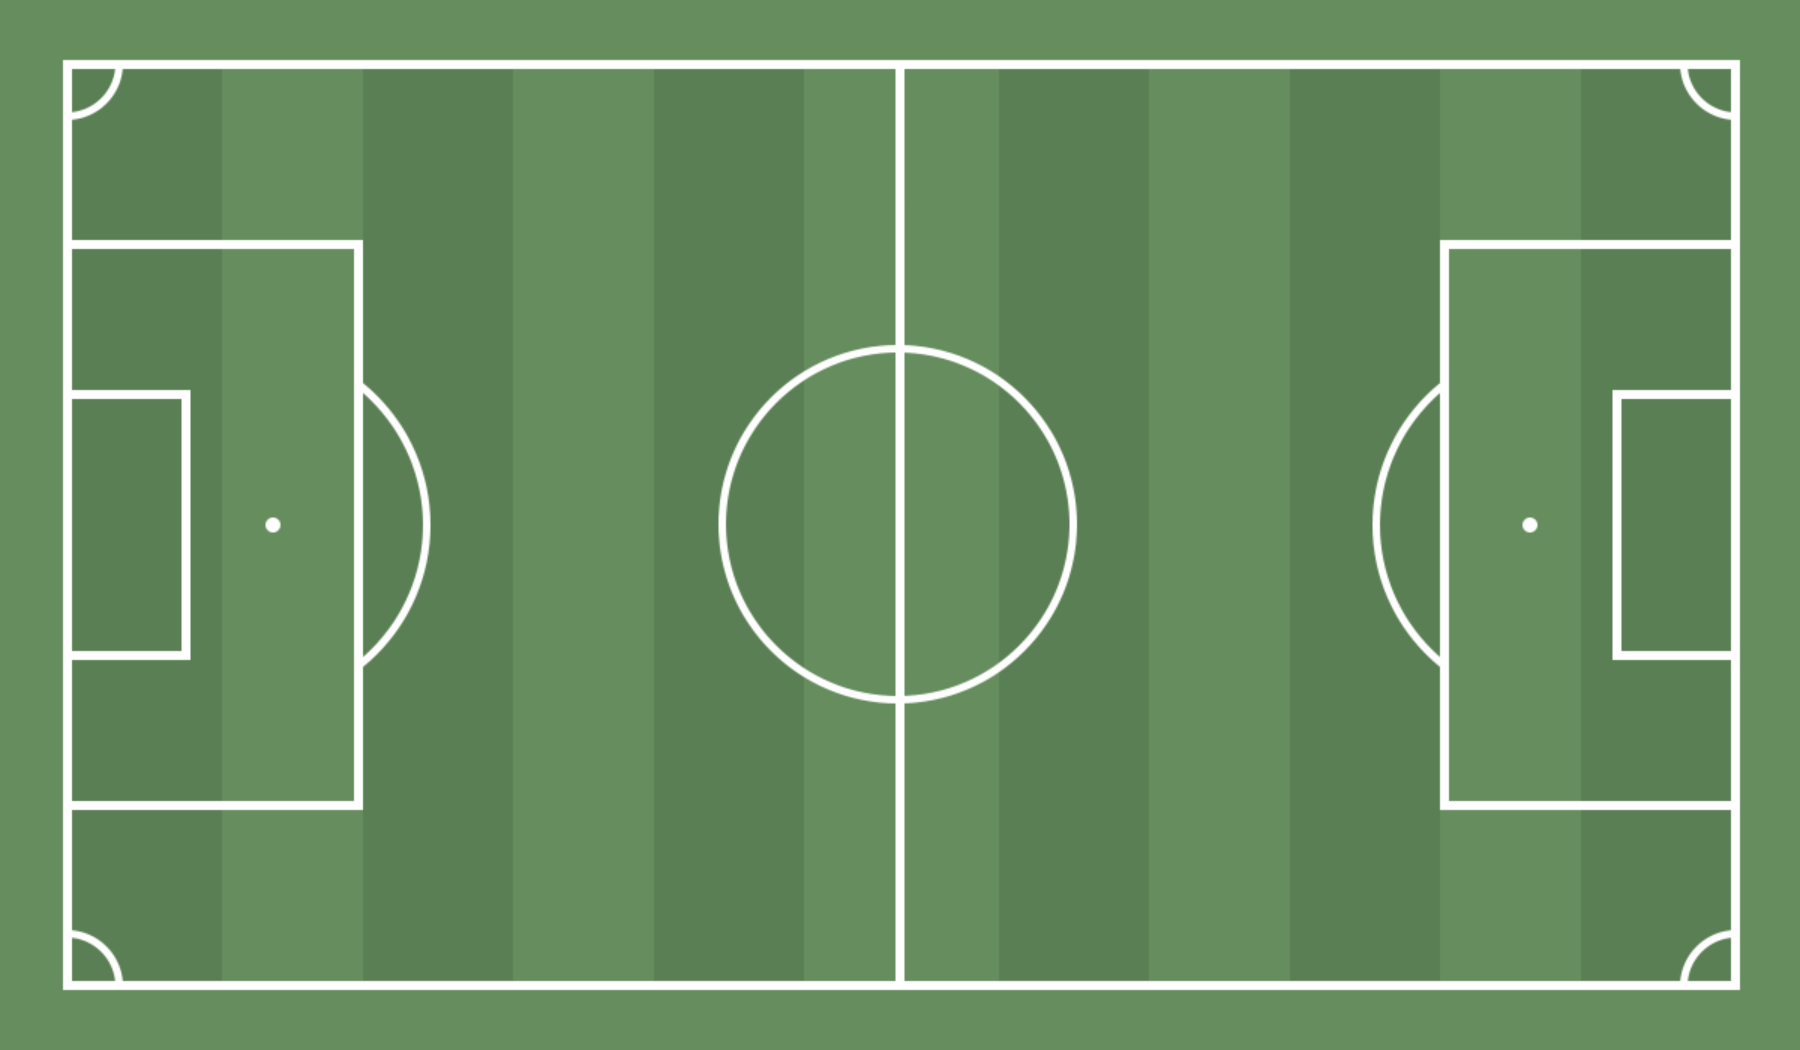
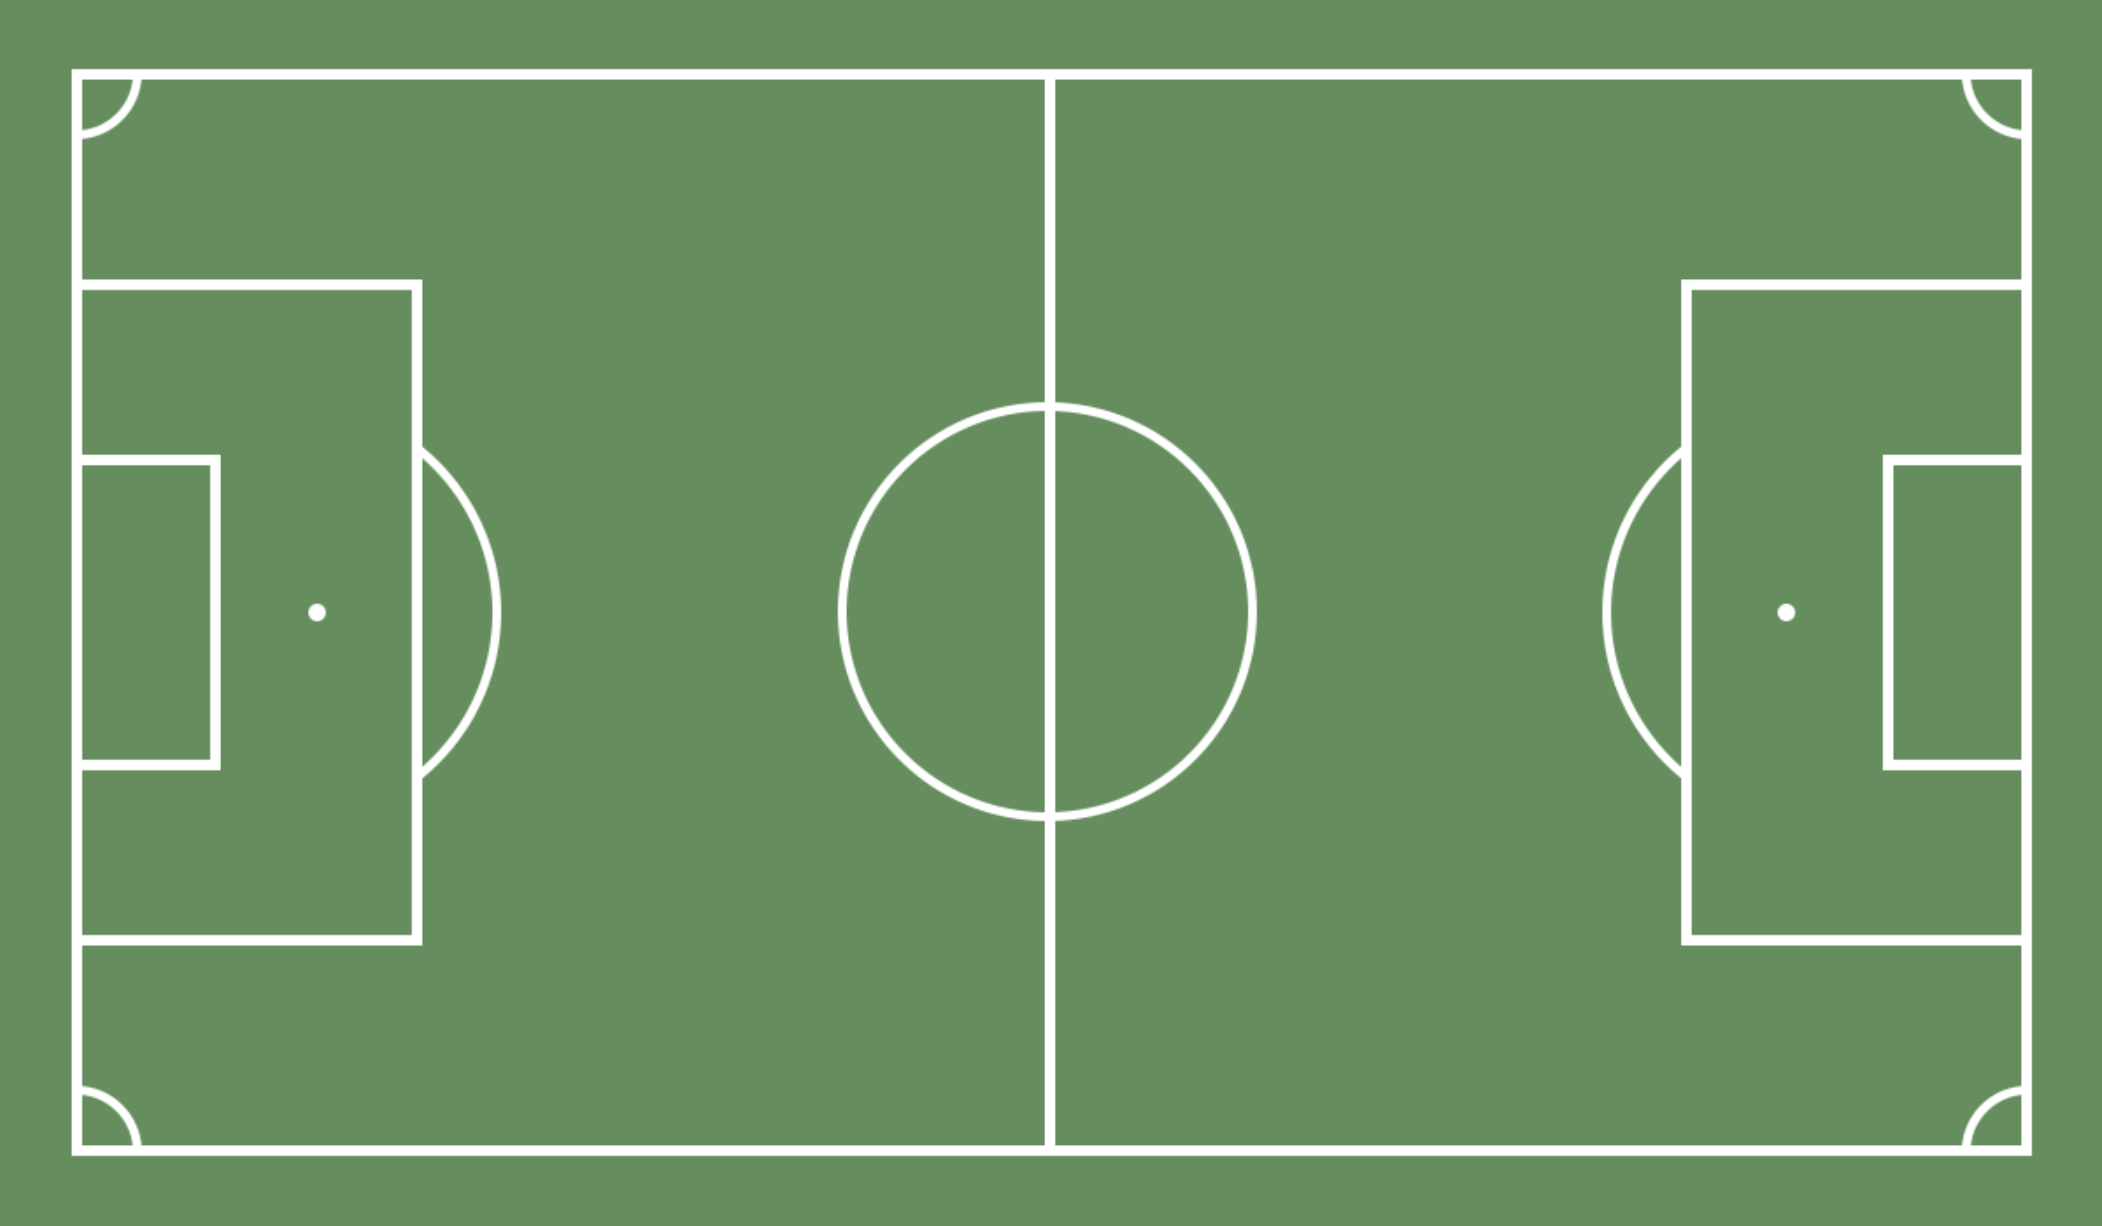
Update README.md

diff --git a/README.md b/README.md
@@ -1,101 +1,125 @@
-# react-soccer-lineup
+<div style="text-align: center; margin-top: 20px">
+    <img alt="React Soccer Lineup" width="32px" height="32px" src="/playground/public/favicon.png">
+</div>
 
-⚽ React Soccer Line up - A soccer pitch representation component for React ⚛
+<div style="text-align: center">
+    <h3 style="margin: 0">React Soccer Lineup </h3>
+    <p>⚽ A soccer pitch representation component for React ⚛</p>
+</div>
+
+<div style="text-align: center">
 
 [![NPM](https://img.shields.io/npm/v/react-soccer-lineup.svg)](https://www.npmjs.com/package/react-soccer-lineup) [![JavaScript Style Guide](https://img.shields.io/badge/code_style-standard-brightgreen.svg)](https://standardjs.com) [![npm](https://img.shields.io/npm/dt/react-soccer-lineup)](https://www.npmjs.com/package/react-soccer-lineup)
+
+</div>
 
 ## Install
 
 ```bash
-npm install --save react-soccer-lineup
+npm install react-soccer-lineup
+```
+
+## Basic usage
+
+```tsx
+import SoccerLineUp from 'react-soccer-lineup';
+
+function App () {
+    return <SoccerLineUp />;
+}
 ```
 
 ![](docs/img/sample-1.png)
 
-## Usage
+## Render teams
 
-```jsx
-import React, { Component } from 'react'
+```tsx
+import SoccerLineUp, { type Team } from 'react-soccer-lineup';
 
-import SoccerLineUp from 'react-soccer-lineup'
-
-
-class Example extends Component {
-
-    render () {
-
-        return (
-            <SoccerLineUp
-              size={ "small" }
-              color={ "lightseagreen" }
-              pattern={ "lines" }
-            />
-        )
-
-    }
+function App () {
+    const homeTeam: Team = {
+        gk: { number: 1 },
+        df: [{ number: 2 }, { number: 4 }, { number: 5 }, { number: 3 }],
+        cm: [{ number: 11 }, { number: 6 }, { number: 8 }, { number: 7 }],
+        fw: [{ number: 9 }, { number: 10 }],
+    };
+    
+    const awayTeam: Team = {
+      gk: { number: 1 },
+      df: [{ number: 2 }, { number: 4 }, { number: 5 }, { number: 3 }],
+      cm: [{ number: 6 }, { number: 8 }, { number: 10 }],
+      fw: [{ number: 11 }, { number: 9 }, { number: 7 }],
+    };
+    
+    return (
+        <SoccerLineUp
+          size='responsive'
+          color='#327D61'
+          pattern='lines'
+          homeTeam={homeTeam}
+          awayTeam={awayTeam}
+        />
+    );
 }
 ```
+
+![](docs/img/sample-2.png)
 
 
 ## API
 
- Prop | Type | Required | Default value | Description
- ---- | ---- | -------- | ------------- | -----------
- `color` | `string` | No | ![#588f58](https://placehold.co/15x15/588f58/588f58.png) `#588f58` | The pitch background color
- `size` | `string` | No | `"normal"` | Pitch dimensions. Supported values: `small`, `normal`, `big`, `responsive`, `fill`
- `pattern` | `string` | No | - | The pattern applied to the pitch grass. Supported values: `lines`, `squares`, `circles`
- `homeTeam` | `Team` | No | - | The left side team
- `awayTeam` | `Team` | No | - | The right side team
+| Prop       | Type     | Required | Default value                                                      | Description                                                                             |
+|------------|----------|----------|--------------------------------------------------------------------|-----------------------------------------------------------------------------------------|
+| `color`    | `string` | No       | ![#588f58](https://placehold.co/15x15/588f58/588f58.png) `#588f58` | The pitch background color                                                              |
+| `size`     | `string` | No       | `"normal"`                                                         | Pitch dimensions. Supported values: `small`, `normal`, `big`, `responsive`, `fill`      |
+| `pattern`  | `string` | No       | -                                                                  | The pattern applied to the pitch grass. Supported values: `lines`, `squares`, `circles` |
+| `homeTeam` | `Team`   | No       | -                                                                  | The left side team                                                                      |
+| `awayTeam` | `Team`   | No       | -                                                                  | The right side team                                                                     |
 
 #### Team
 
- Attribute | Type | Required | Default value | Description
- ---- | ---- | -------- | ------------- | -----------
- `squad` | `Squad` | Yes | - | The team players by role
- `style` | `Style` | No | - | The team style
+| Attribute | Type    | Required | Default value | Description              |
+|-----------|---------|----------|---------------|--------------------------|
+| `squad`   | `Squad` | Yes      | -             | The team players by role |
+| `style`   | `Style` | No       | -             | The team style           |
 
 #### Squad
 
- Attribute | Type | Required | Default value | Description
- ---- | ---- | -------- | ------------- | -----------
- `gk` | `Player` | No | - | The squad goalkeeper
- `df` | `Player[]` | No | - | The squad defenders
- `cdm` | `Player[]` | No | - | The squad central defensive midfielders
- `cm` | `Player[]` | No | - | The squad central midfielders
- `cam` | `Player[]` | No | - | The squad central attack midfielders
- `fw` | `Player[]` | No | - | The squad forwards
+| Attribute | Type       | Required | Default value | Description                             |
+|-----------|------------|----------|---------------|-----------------------------------------|
+| `gk`      | `Player`   | No       | -             | The squad goalkeeper                    |
+| `df`      | `Player[]` | No       | -             | The squad defenders                     |
+| `cdm`     | `Player[]` | No       | -             | The squad central defensive midfielders |
+| `cm`      | `Player[]` | No       | -             | The squad central midfielders           |
+| `cam`     | `Player[]` | No       | -             | The squad central attack midfielders    |
+| `fw`      | `Player[]` | No       | -             | The squad forwards                      |
 
 #### Style
 
-Attribute | Type | Required | Default value                                                                                                                                         | Description
- ---- | ---- | -------- |-------------------------------------------------------------------------------------------------------------------------------------------------------| -----------
-`color` | `string` | Yes | ![#ffffff](https://placehold.co/15x15/ffffff/ffffff.png) `#ffffff` (home) / ![#333333](https://placehold.co/15x15/333333/333333.png) `#333333` (away) | The team color
-`borderColor` | `string` | Yes | ![#ffffff](https://placehold.co/15x15/ffffff/ffffff.png) `#ffffff` (home) / ![#333333](https://placehold.co/15x15/333333/333333.png) `#333333` (away) | The team border color
-`numberColor` | `string` | Yes | ![#333333](https://placehold.co/15x15/333333/333333.png) `#333333` (home) / ![#ffffff](https://placehold.co/15x15/ffffff/ffffff.png) `#ffffff` (away) | The team number color
-`nameColor` | `string` | No | ![#333333](https://placehold.co/15x15/333333/333333.png) `#333333` (home) / ![#ffffff](https://placehold.co/15x15/ffffff/ffffff.png) `#ffffff` (away) | The team players' name color
+| Attribute     | Type     | Required | Default value                                                                                                                                         | Description                  |
+|---------------|----------|----------|-------------------------------------------------------------------------------------------------------------------------------------------------------|------------------------------|
+| `color`       | `string` | Yes      | ![#ffffff](https://placehold.co/15x15/ffffff/ffffff.png) `#ffffff` (home) / ![#333333](https://placehold.co/15x15/333333/333333.png) `#333333` (away) | The team color               |
+| `borderColor` | `string` | Yes      | ![#ffffff](https://placehold.co/15x15/ffffff/ffffff.png) `#ffffff` (home) / ![#333333](https://placehold.co/15x15/333333/333333.png) `#333333` (away) | The team border color        |
+| `numberColor` | `string` | Yes      | ![#333333](https://placehold.co/15x15/333333/333333.png) `#333333` (home) / ![#ffffff](https://placehold.co/15x15/ffffff/ffffff.png) `#ffffff` (away) | The team number color        |
+| `nameColor`   | `string` | No       | ![#333333](https://placehold.co/15x15/333333/333333.png) `#333333` (home) / ![#ffffff](https://placehold.co/15x15/ffffff/ffffff.png) `#ffffff` (away) | The team players' name color |
 
 #### Player
 
- Attribute | Type           | Required | Default value  | Description
- ---- |----------------| -------- |----------------| -----------
- `name` | `string`       | No | -              | The displayed player name
- `number` | `number`       | No | -              | The displayed player number
- `style` | `Style`        | No | The team style | The player style 
- `offset` | `PlayerOffset` | No | -              | The player position offset 
- `onCLick` | `Function`     | No | -              | Callback to invoke when clicking on the player
+| Attribute | Type           | Required | Default value  | Description                                    |
+|-----------|----------------|----------|----------------|------------------------------------------------|
+| `name`    | `string`       | No       | -              | The displayed player name                      |
+| `number`  | `number`       | No       | -              | The displayed player number                    |
+| `style`   | `Style`        | No       | The team style | The player style                               |
+| `offset`  | `PlayerOffset` | No       | -              | The player position offset                     |
+| `onCLick` | `Function`     | No       | -              | Callback to invoke when clicking on the player |
 
 #### PlayerOffset
 
- Attribute | Type           | Required | Default value | Description
- ---- |----------------| -------- |---------------| -----------
- `x` | `number`       | No | 0             | The horizontal offset
- `y` | `number`       | No | 0             | The vertical offset
- 
+| Attribute | Type     | Required | Default value | Description           |
+|-----------|----------|----------|---------------|-----------------------|
+| `x`       | `number` | No       | 0             | The horizontal offset |
+| `y`       | `number` | No       | 0             | The vertical offset   |
+
 ## Live
 
 Check the playground [here](https://rsl-playground.netlify.app).
-
-
-## License
-
-MIT © [giustini](https://github.com/giustini)
